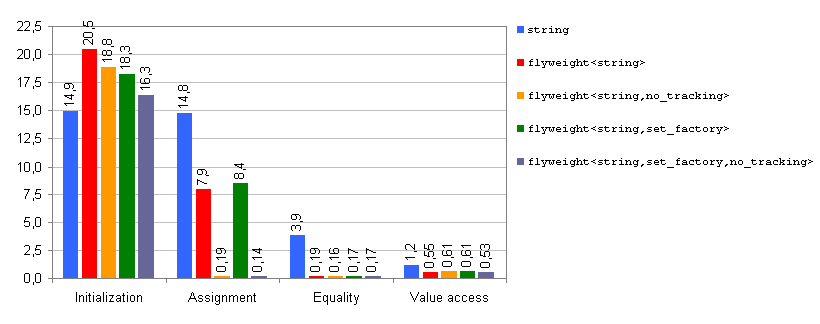
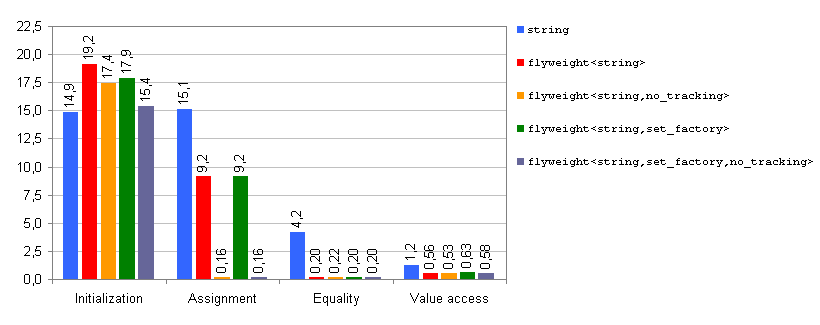
updated performance info

diff --git a/libs/flyweight/doc/performance.html b/libs/flyweight/doc/performance.html
@@ -171,7 +171,7 @@ Alignment may introduce additional overhead.
 <tr>
   <td align="center" rowspan="2">&nbsp;&nbsp;tracking mechanism&nbsp;&nbsp;</td>
   <td align="center">&nbsp;&nbsp;<a href="tutorial/configuration.html#refcounted"><code>refcounted</code></a>&nbsp;&nbsp;</td>
-  <td align="center">&nbsp;&nbsp;1<sup>(3)</sup>&nbsp;&nbsp;</td>
+  <td align="center">&nbsp;&nbsp;2<sup>(3)</sup>&nbsp;&nbsp;</td>
 </tr>
 <tr>
   <td align="center">&nbsp;&nbsp;<a href="tutorial/configuration.html#no_tracking"><code>no_tracking</code></a>&nbsp;&nbsp;</td>
@@ -180,13 +180,13 @@ Alignment may introduce additional overhead.
 </table>
 <sup>(1)</sup> <small>Assuming that <code>sizeof(Key)&lt;=sizeof(Value)</code>.</small><br>
 <sup>(2)</sup> <small>For some implementations of <code>std::set</code> this overhead reduces to 3.</small><br>
-<sup>(3)</sup> <small>In some platforms this value can be 2.</small>
+<sup>(3)</sup> <small>In some platforms this value can be 3.</small>
 </p>
 
 <p>
 For instance, for the default configuration parameters of <code>flyweight</code>,
-<i>overhead</i> is typically 2.5(<code>hashed_factory</code>) + 1(<code>refcounted</code>)
-= 3 words.
+<i>overhead</i> is typically 2.5(<code>hashed_factory</code>) + 2(<code>refcounted</code>)
+= 4.5 words.
 </p>
 
 <h3><a name="overall_memory">Overall memory consumption</a></h3>
@@ -339,7 +339,7 @@ processor and 1 GB of RAM.
 
 <p align="center">
 <img src="memory_msvc_80.png" alt="memory consumption (MB), MSVC++ 8.0"
-width="798" height="322"><br>
+width="798" height="323"><br>
 <b>Fig. 2: Memory consumption, MSVC++ 8.0. Values in MB.</b>
 </p>
 
@@ -362,7 +362,7 @@ of the text source.
 
 <p align="center">
 <img src="time_msvc_80.png" alt="execution time (s), MSVC++ 8.0"
-width="820" height="324"><br>
+width="820" height="325"><br>
 <b>Fig. 3: Execution time, MSVC++ 8.0. Values in seconds.</b>
 </p>
 
@@ -370,10 +370,10 @@ width="820" height="324"><br>
 The figure displays execution times for the profiled scenarios in different
 usage contexts. In accordance with our previous
 <a href="#time">qualitative analysis</a>, initialization of <code>flyweight</code>s
-carries an important overhead with respect to the base case scenario (between 10% and 40%
+carries an important overhead with respect to the base case scenario (between 20% and 40%
 of additional execution time), while the other usage contexts
 (assignment, equality comparison and value access) have performance gains,
-with speedup factors of up to 14 in some cases. The use of a 
+with speedup factors of more than 10 in some cases. The use of a 
 <a href="tutorial/configuration.html#refcounted"><code>refcounted</code></a>
 tracking policy introduces penalties with respect to
 <a href="tutorial/configuration.html#no_tracking"><code>no_tracking</code></a>
@@ -393,7 +393,7 @@ Tests were run under a Cygwin terminal in the same machine as <a href="#msvc_80"
 
 <p align="center">
 <img src="memory_gcc_344.png" alt="memory consumption (MB), GCC 3.4.4"
-width="798" height="322"><br>
+width="798" height="323"><br>
 <b>Fig. 4: Memory consumption, GCC 3.4.4. Values in MB.</b>
 </p>
 
@@ -411,7 +411,7 @@ over plain copy-on-write <code>std::string</code>s.
 
 <p align="center">
 <img src="time_gcc_344.png" alt="execution time (s), GCC 3.4.4"
-width="820" height="324"><br>
+width="820" height="325"><br>
 <b>Fig. 5: Execution time, GCC 3.4.4. Values in seconds.</b>
 </p>
 
@@ -459,9 +459,9 @@ Examples
 
 <br>
 
-<p>Revised December 2nd 2008</p>
+<p>Revised June 22nd 2009</p>
 
-<p>&copy; Copyright 2006-2008 Joaqu&iacute;n M L&oacute;pez Mu&ntilde;oz.
+<p>&copy; Copyright 2006-2009 Joaqu&iacute;n M L&oacute;pez Mu&ntilde;oz.
 Distributed under the Boost Software 
 License, Version 1.0. (See accompanying file <a href="../../../LICENSE_1_0.txt">
 LICENSE_1_0.txt</a> or copy at <a href="http://www.boost.org/LICENSE_1_0.txt">
